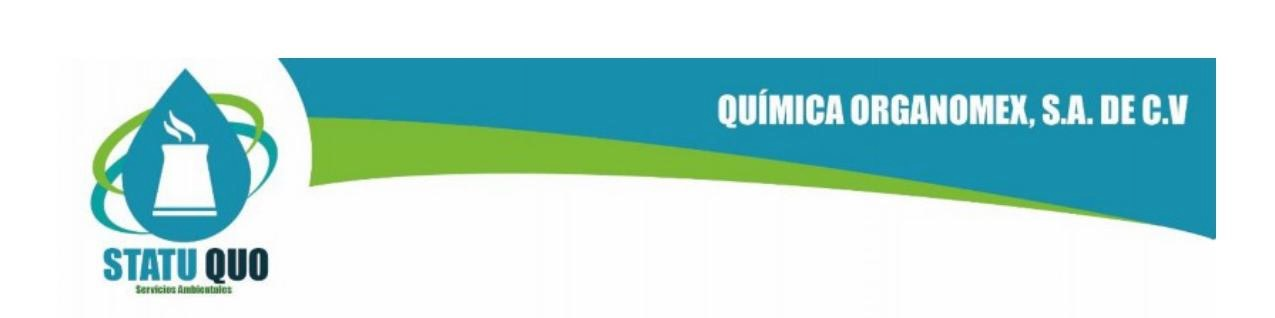
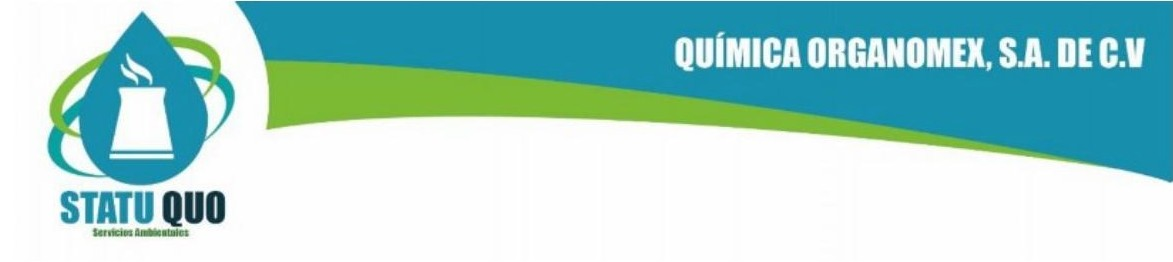
ajustes de margen al header y footer del pdf

diff --git a/app/reports/page.tsx b/app/reports/page.tsx
@@ -1000,23 +1000,29 @@ export default function Reporte() {
         // Continuar con fuente por defecto si hay error
       }
       
-      const pageWidthMM = pdf.internal.pageSize.getWidth(); // 210mm
-      const pageHeightMM = pdf.internal.pageSize.getHeight(); // 297mm
-      const contentWidthMM = pageWidthMM * 0.9; // 90% del ancho: ~189mm (aumentado para mejor legibilidad)
-      const marginLeft = (pageWidthMM - contentWidthMM) / 2; // Centrar el contenido
+      const pageWidthMM = pdf.internal.pageSize.getWidth();
+      const pageHeightMM = pdf.internal.pageSize.getHeight();
+      const marginLeft = 20;
+      const marginRight = 20;
       const marginTop = 20;
       const marginBottom = 20;
+      const contentWidthMM = pageWidthMM - marginLeft - marginRight;
       let currentY = marginTop;
       const spacingMM = 8;
 
-      // Función para verificar espacio y agregar nueva página
+      let headerHeight = 0;
+      const drawHeaderOnCurrentPage = () => {
+        if (headerData && headerHeight > 0) {
+          pdf.addImage(headerData, "JPEG", 0, 0, pageWidthMM, headerHeight);
+        }
+      };
+
       const checkSpaceAndAddPage = (elementHeightMM: number, currentY: number): number => {
-        const margin = 10;
-        const availableSpace = pageHeightMM - currentY - marginBottom - margin;
-        
+        const availableSpace = pageHeightMM - currentY - marginBottom;
         if (elementHeightMM > availableSpace) {
           pdf.addPage();
-          return marginTop;
+          drawHeaderOnCurrentPage();
+          return headerHeight + marginTop;
         }
         return currentY;
       };
@@ -1043,15 +1049,13 @@ export default function Reporte() {
         // Footer no disponible
       }
 
-      // Agregar header
       if (headerData) {
         const headerImg = new window.Image();
         headerImg.src = headerData;
         await new Promise((resolve) => {
           headerImg.onload = () => {
-            const headerHeightMM = (headerImg.height / headerImg.width) * pageWidthMM;
-            pdf.addImage(headerData!, "JPEG", 0, 0, pageWidthMM, headerHeightMM);
-            currentY = headerHeightMM + spacingMM;
+            headerHeight = (headerImg.height / headerImg.width) * pageWidthMM;
+            currentY = headerHeight + marginTop;
             resolve(null);
           };
           headerImg.onerror = () => resolve(null);
@@ -1059,7 +1063,7 @@ export default function Reporte() {
       }
 
       // Información del reporte
-      pdf.setFontSize(12);
+      pdf.setFontSize(10);
       const reportInfo = [
         `Dirigido a: ${reportNotes["dirigido"] || reportSelection?.plant?.dirigido_a || "ING."}`,
         `Asunto: ${reportNotes["asunto"] || reportSelection?.plant?.mensaje_cliente || `REPORTE DE ANÁLISIS PARA TODOS LOS SISTEMAS EN LA PLANTA DE ${reportSelection?.plant?.nombre || "NOMBRE DE LA PLANTA"}`}`,
@@ -1094,6 +1098,9 @@ export default function Reporte() {
         body: legendData.slice(1),
         startY: currentY,
         theme: "grid",
+        tableWidth: contentWidthMM,
+        margin: { left: marginLeft, right: marginRight, top: headerHeight + marginTop },
+        didDrawPage: () => drawHeaderOnCurrentPage(),
         headStyles: { fillColor: [66, 139, 202] },
         didParseCell: (data: any) => {
           if (data.section === 'body' && data.row.index !== undefined) {
@@ -1106,8 +1113,7 @@ export default function Reporte() {
             }
           }
         },
-        margin: { left: marginLeft, right: marginLeft },
-        styles: { fontSize: 10 },
+        styles: { fontSize: 9 },
       });
 
       currentY = ((pdf as any).lastAutoTable.finalY as number) + spacingMM;
@@ -1199,7 +1205,9 @@ export default function Reporte() {
           body: previewTableData,
           startY: currentY,
           theme: "grid",
-          margin: { left: marginLeft, right: marginLeft },
+          tableWidth: contentWidthMM,
+          margin: { left: marginLeft, right: marginRight, top: headerHeight + marginTop },
+          didDrawPage: () => drawHeaderOnCurrentPage(),
           styles: { 
             fontSize: 9,
             font: pdfFontName, // Misma fuente que el resto del reporte
@@ -1788,70 +1796,57 @@ export default function Reporte() {
             dataRows.push(row);
           });
           
-          // Crear tabla con AutoTable
           const tableData = [altoRow, bajoRow, rangosRow, ...dataRows];
-          
-          // Mismo ancho que los gráficos (contentWidthMM) para consistencia visual
-          const tableWidthMM = contentWidthMM;
-          const tableMarginLeft = marginLeft;
-          const tableMarginRight = marginLeft; // Mismos márgenes que el resto del contenido
-          
+
           autoTable(pdf, {
             head: [tableHeaders],
             body: tableData,
             startY: currentY,
             theme: "grid",
-            tableWidth: tableWidthMM,
+            tableWidth: contentWidthMM,
+            margin: { left: marginLeft, right: marginRight, top: headerHeight + marginTop },
+            didDrawPage: () => drawHeaderOnCurrentPage(),
             headStyles: { 
-              fillColor: [31, 78, 121], // Azul oscuro
+              fillColor: [31, 78, 121],
               textColor: [255, 255, 255],
-              fontSize: 5.85, // Reducido 35% (9 * 0.65)
+              fontSize: 8,
               halign: 'center',
-              cellPadding: 0.975 // Reducido 35% (1.5 * 0.65)
+              cellPadding: 1
             },
             bodyStyles: {
-              fontSize: 4.875, // Reducido 35% (7.5 * 0.65)
+              fontSize: 8,
               halign: 'center',
-              cellPadding: 0.975 // Reducido 35% (1.5 * 0.65)
+              cellPadding: 1
             },
             columnStyles: {
-              0: { halign: 'left', cellWidth: 18.2 }, // Reducido 35% (28 * 0.65)
+              0: { halign: 'left', cellWidth: 18 },
             },
             didParseCell: (data: any) => {
-              // Aplicar cellWidth: 9.1 a todas las columnas excepto la primera (reducido 35%)
               if (data.column.index > 0) {
-                data.cell.styles.cellWidth = 9.1; // Reducido 35% (14 * 0.65)
+                data.cell.styles.cellWidth = 9;
               }
-              
-              // Alinear columna de COMENTARIOS a la izquierda
               if (data.column.index === tableHeaders.length - 1) {
                 data.cell.styles.halign = 'left';
               }
-              
-              // Colorear filas ALTO y BAJO en verde claro
               if (data.section === 'body' && data.row.index !== undefined) {
                 if (data.row.index === 0 || data.row.index === 1) {
-                  // Filas ALTO y BAJO
-                  data.cell.styles.fillColor = [220, 255, 220]; // Verde claro
+                  data.cell.styles.fillColor = [220, 255, 220];
                 } else if (data.row.index === 2) {
-                  // Fila FECHA/RANGOS
-                  data.cell.styles.fillColor = [31, 78, 121]; // Azul oscuro
+                  data.cell.styles.fillColor = [31, 78, 121];
                   data.cell.styles.textColor = [255, 255, 255];
                 } else {
-                  // Filas de datos históricos - alternar colores
-                  const dataIndex = data.row.index - 3; // Restar 3 por ALTO, BAJO, RANGOS
+                  const dataIndex = data.row.index - 3;
                   if (dataIndex % 2 === 0) {
-                    data.cell.styles.fillColor = [245, 255, 245]; // Verde muy claro
+                    data.cell.styles.fillColor = [245, 255, 245];
                   } else {
-                    data.cell.styles.fillColor = [255, 240, 245]; // Rosa claro
+                    data.cell.styles.fillColor = [255, 240, 245];
                   }
                 }
               }
             },
-            margin: { left: tableMarginLeft, right: tableMarginRight },
             styles: { 
-              fontSize: 4.875, // Reducido 35% (7.5 * 0.65)
-              cellPadding: 0.975 // Reducido 35% (1.5 * 0.65)
+              fontSize: 8,
+              cellPadding: 1
             },
           });
           
@@ -1883,17 +1878,18 @@ export default function Reporte() {
       pdf.text(`Fecha de generación: ${(reportSelection?.generatedDate ? new Date(reportSelection.generatedDate) : new Date()).toLocaleString('es-ES')}`, marginLeft, currentY);
       currentY += spacingMM;
 
-    // Agregar footer a la última página
       if (footerData) {
-    const totalPages = pdf.internal.pages.length;
-    pdf.setPage(totalPages);
         const footerImg = new window.Image();
         footerImg.src = footerData;
         await new Promise((resolve) => {
           footerImg.onload = () => {
-            const footerHeightMM = (footerImg.height / footerImg.width) * pageWidthMM;
-            const footerY = pageHeightMM - footerHeightMM - marginBottom;
-            pdf.addImage(footerData!, "JPEG", 0, footerY, pageWidthMM, footerHeightMM);
+            const footerHeight = (footerImg.height / footerImg.width) * pageWidthMM;
+            const footerY = pageHeightMM - footerHeight;
+            const totalPages = (pdf.internal as { getNumberOfPages?: () => number }).getNumberOfPages?.() ?? pdf.internal.pages.length;
+            for (let i = 1; i <= totalPages; i++) {
+              pdf.setPage(i);
+              pdf.addImage(footerData!, "JPEG", 0, footerY, pageWidthMM, footerHeight);
+            }
             resolve(null);
           };
           footerImg.onerror = () => resolve(null);
